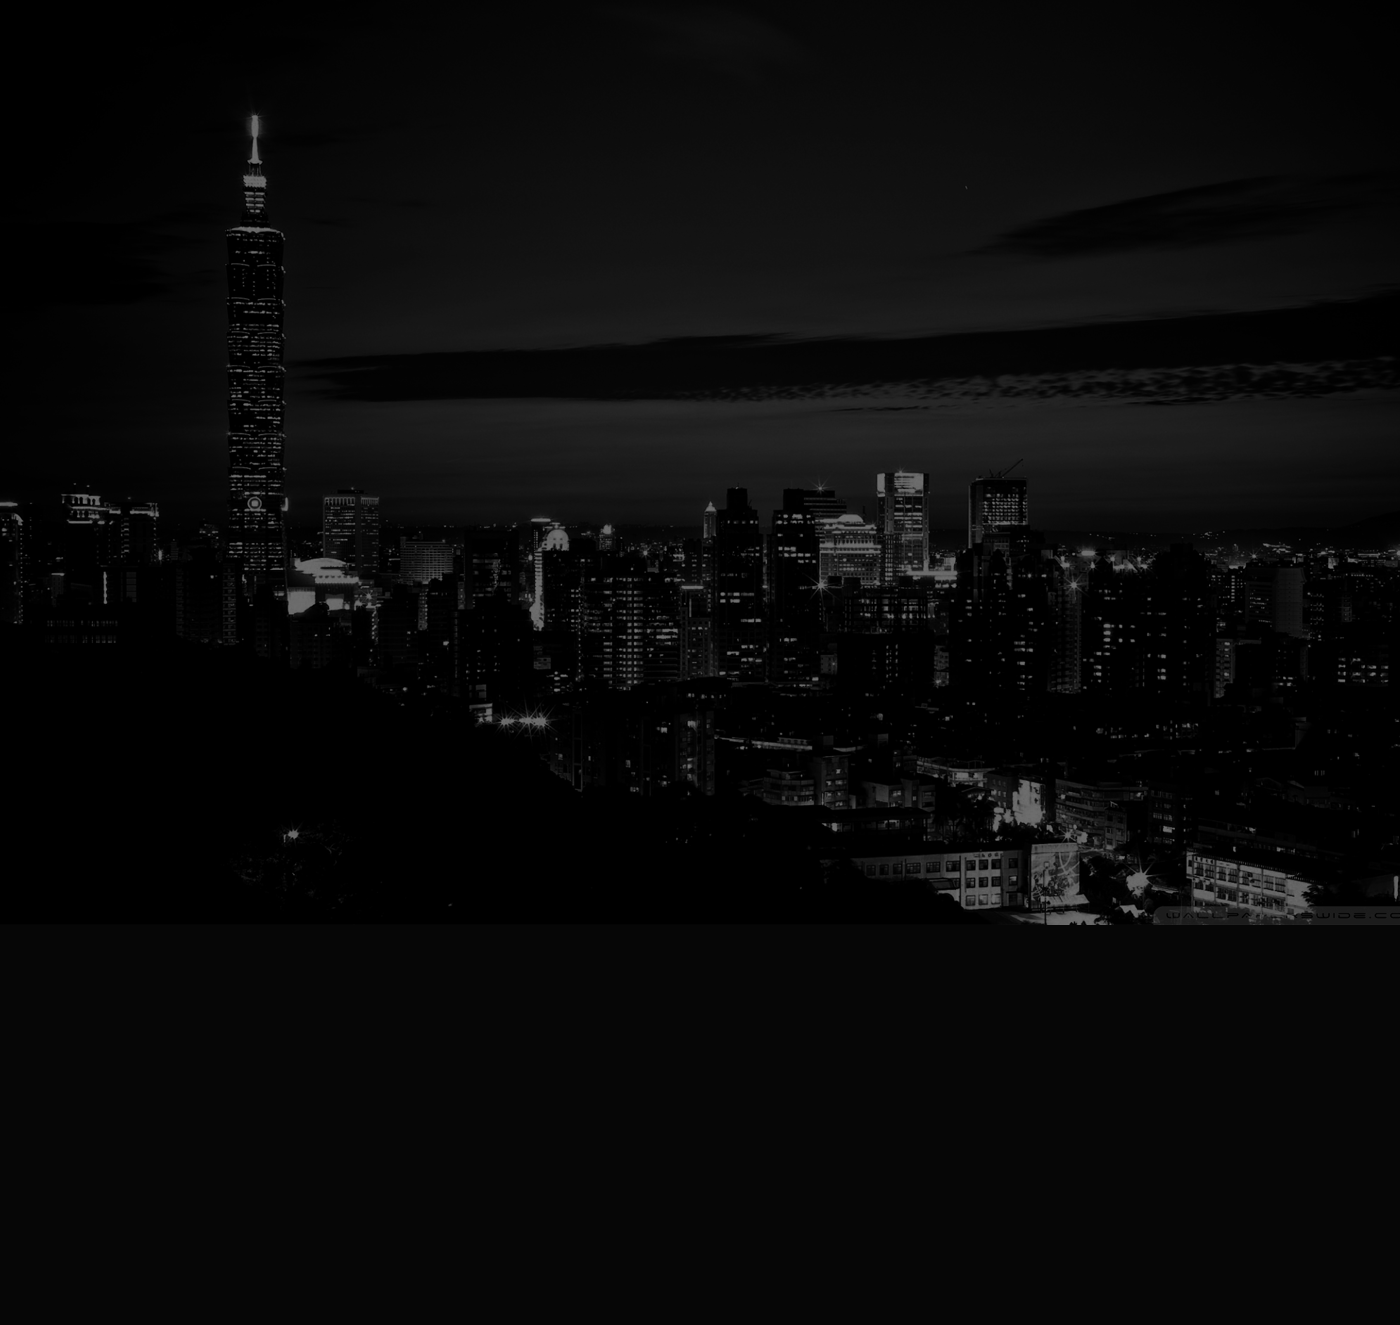
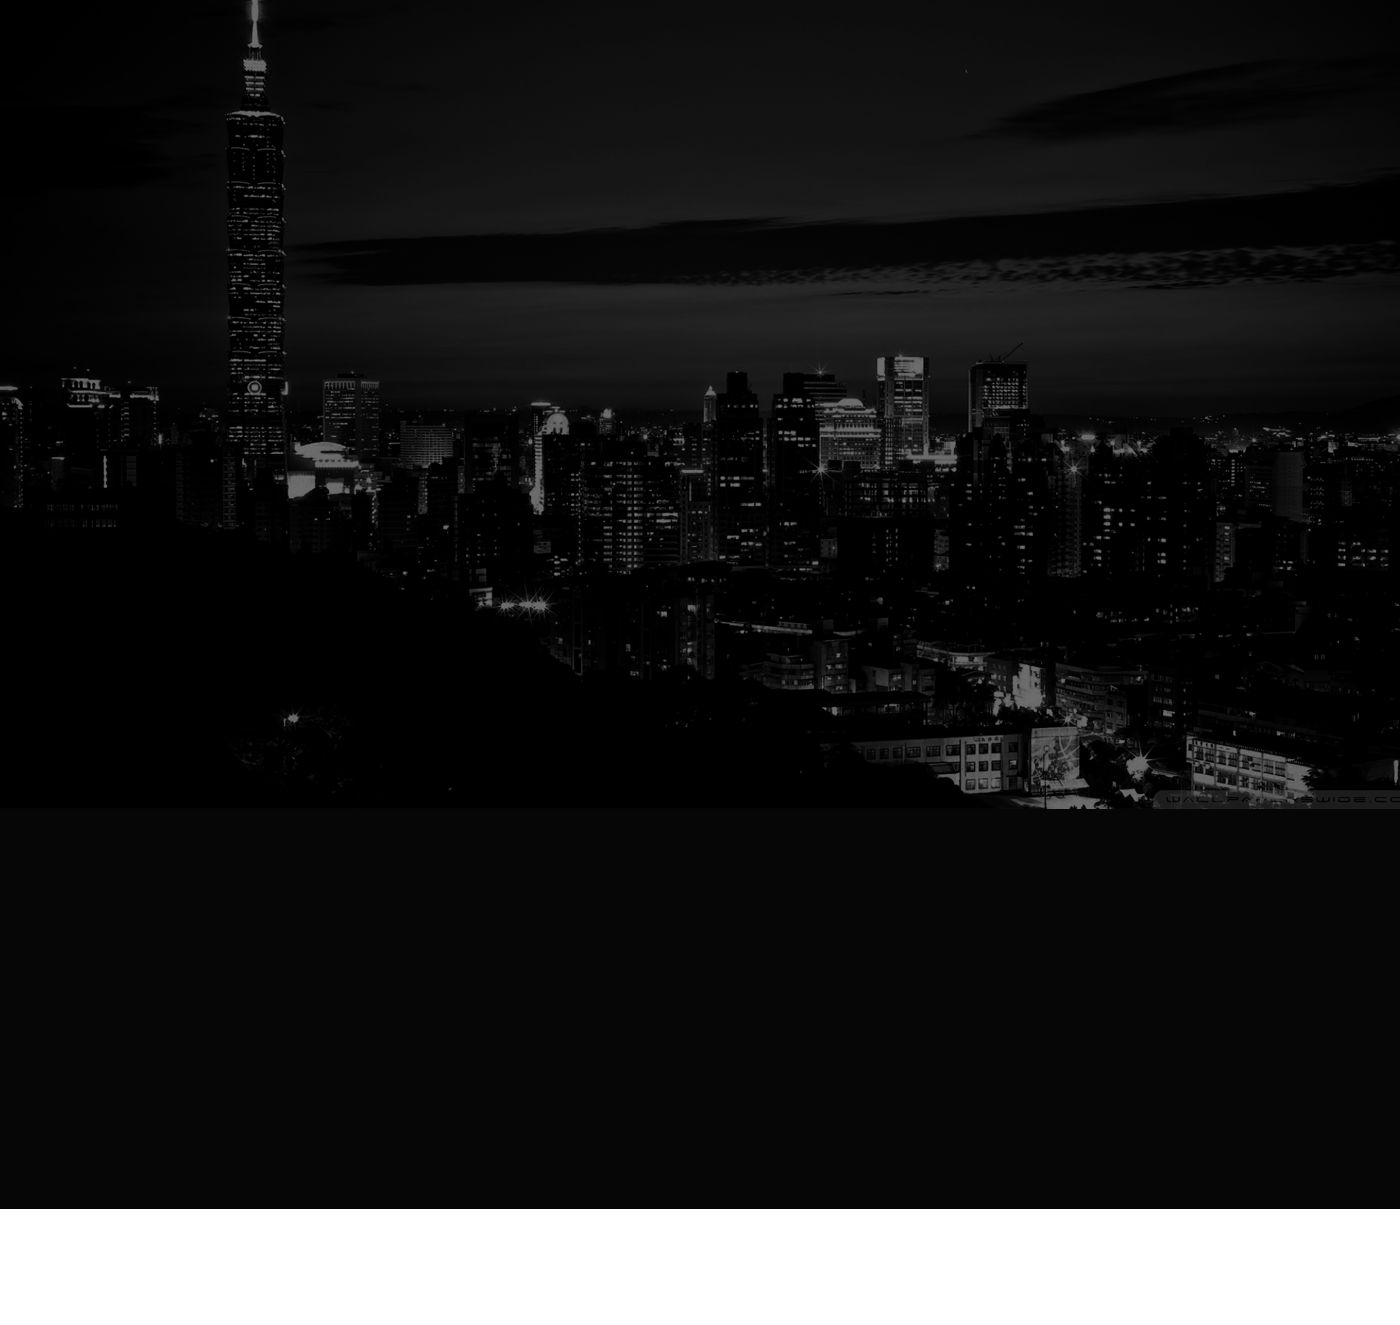
stats

diff --git a/source/stylesheets/style.css.scss b/source/stylesheets/style.css.scss
@@ -513,7 +513,7 @@ a{
 section{
   padding:$baseline*4 0;
   &.hero{
-    background: url(../images/hero_city.png) no-repeat center 0px fixed; 
+    background: url(../images/hero_city.png) no-repeat center top fixed; 
     @include background-size(cover);
     background-color:$black-color;
     h1{
@@ -548,6 +548,38 @@ section{
         }
         &:nth-child(odd){
           margin-right:$baseline;
+        }
+        h1.number{
+          position:relative;
+          text-align:center;
+          top:-115px;
+          left:10px;
+          font-size:5em;
+          margin-bottom:-50px;
+        }
+      }
+    }
+  }
+  &.donate_infographic{
+    ul.donate_infographic_blocks{
+      text-align:center;
+      margin:0;
+      li{
+        text-align:left;
+        background-color:$light-gray-color;
+        width:300px;
+        margin:0 0 10px 0;
+        &:nth-child(odd){
+          margin-right:10px;
+        }
+        &:nth-child(even){
+          text-align:right;
+        }
+        &:nth-child(1),&:nth-child(2){
+          padding-bottom:$baseline*4!important;
+        }
+        &:nth-child(3),&:nth-child(4){
+          padding-top:$baseline*4!important;
         }
       }
     }

diff --git a/source/javascripts/scripts.js b/source/javascripts/scripts.js
@@ -1,16 +1,17 @@
-      $(document).ready(function(){
+$(document).ready(function(){
 
-        ////paralax
-        $('section[data-type="background"]').each(function(){
-            var $bgobj = $(this); // assigning the object
-            $(window).scroll(function() {
-                var yPos = -($(window).scrollTop() / $bgobj.data('speed'));
-                // Put together our final background position
-                var coords = '50% '+ yPos + 'px';
-                // Move the background
-                $bgobj.css({ backgroundPosition: coords });
-            });
+    ////paralax
+    $('section[data-type="background"]').each(function(){
+        var $bgobj = $(this); // assigning the object
+        $(window).scroll(function() {
+            var yPos = -($(window).scrollTop() / $bgobj.data('speed'));
+            // Put together our final background position
+            var coords = '50% '+ yPos + 'px';
+            // Move the background
+            $bgobj.css({ backgroundPosition: coords });
         });
+    });
 
 
-      });
+
+});
